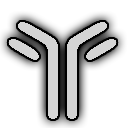
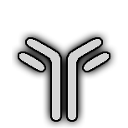
debuff rotation is now centered * no more influent movements of crosshair & debuff

diff --git a/ParticleStormControl/ParticleStormControl/InGame/Level/Level.cs b/ParticleStormControl/ParticleStormControl/InGame/Level/Level.cs
@@ -202,12 +202,29 @@ namespace VirusX
 
         public Rectangle ComputePixelRect(Vector2 position, Vector2 size)
         {
-            int rectSizeX = (int)(size.X * fieldSize_pixel.X + 0.5f);
-            int rectSizeY = (int)(size.Y * fieldSize_pixel.Y + 0.5f);
-            int rectx = (int)(position.X / RELATIVE_MAX.X * FieldPixelSize.X + FieldPixelOffset.X);
-            int recty = (int)(position.Y / RELATIVE_MAX.Y * FieldPixelSize.Y + FieldPixelOffset.Y);
+            Vector2 outSize = ComputePixelScale(size) + new Vector2(0.5f);
+            Vector2 outpos = ComputePixelPosition(position) + new Vector2(0.5f);
+            return new Rectangle((int)outpos.X, (int)outpos.Y, (int)outSize.X, (int)outSize.Y);
+        }
 
-            return new Rectangle(rectx, recty, rectSizeX, rectSizeY);
+        public Vector2 ComputePixelPosition(Vector2 position)
+        {
+            return new Vector2(position.X / RELATIVE_MAX.X * FieldPixelSize.X + FieldPixelOffset.X,
+                               position.Y / RELATIVE_MAX.Y * FieldPixelSize.Y + FieldPixelOffset.Y);
+        }
+
+        public float ComputePixelScale(float relativeScale)
+        {
+            return relativeScale * fieldSize_pixel.Y;
+        }
+        public float ComputeTextureScale(float relativeSize, int textureSize)
+        {
+            return ComputePixelScale(relativeSize) / textureSize;
+        }
+        public Vector2 ComputePixelScale(Vector2 relativeScale)
+        {
+            return new Vector2(relativeScale.X * fieldSize_pixel.X,
+                               relativeScale.Y * fieldSize_pixel.Y);
         }
 
         /// <summary>
@@ -299,16 +316,14 @@ namespace VirusX
                 // move antibodies to the nearest player
                 else if (mapObject is Debuff)
                 {
-                    var playerByDistance = players.OrderBy(x => Vector2.DistanceSquared(x.ParticleAttractionPosition, mapObject.Position));
-                    if(playerByDistance.Count() > 1)
+                    var nearestPlayer = players.OrderBy(x => Vector2.DistanceSquared(x.ParticleAttractionPosition, mapObject.Position)).First();
+                    Vector2 move = nearestPlayer.ParticleAttractionPosition - mapObject.Position;
+                    float distanceToPlayerAttractionPos = move.Length();
+                    if (distanceToPlayerAttractionPos > 0.02f)
                     {
-                        Vector2 move = playerByDistance.First().ParticleAttractionPosition - mapObject.Position;
-                        if (move.Length() > 0.02f)
-                        {
-                            move /= move.Length();
-                            move *= (float)gameTime.ElapsedGameTime.TotalSeconds * (Player.CURSOR_SPEED * 0.015f);
-                            mapObject.Position += move;
-                        }
+                        move /= distanceToPlayerAttractionPos;
+                        move *= (float)gameTime.ElapsedGameTime.TotalSeconds * (Player.CURSOR_SPEED * 0.015f);
+                        mapObject.Position += move;
                     }
                 }
             }

diff --git a/ParticleStormControl/ParticleStormControl/InGame/Level/Crosshair.cs b/ParticleStormControl/ParticleStormControl/InGame/Level/Crosshair.cs
@@ -76,15 +76,15 @@ namespace VirusX
             // normal cursor
             if (PlayerAlive)
             {
-                spriteBatch.Draw(crossHairTexture, level.ComputePixelRect(ParticleAttractionPosition, Size), null, color,
-                                    currentRotation, new Vector2(crossHairTexture.Width * 0.5f, crossHairTexture.Height * 0.5f),
+                spriteBatch.Draw(crossHairTexture, level.ComputePixelPosition(ParticleAttractionPosition), null, color,
+                                    currentRotation, new Vector2(crossHairTexture.Width * 0.5f, crossHairTexture.Height * 0.5f), level.ComputeTextureScale(Size, crossHairTexture.Width),
                                     SpriteEffects.None, 0.0f);
 
                 if (ParticleAttractionPosition != Position)
                 {
                     color.A = 150;
-                    spriteBatch.Draw(crossHairTexture, level.ComputePixelRect(Position, Size), null, color,
-                       currentRotation, new Vector2(crossHairTexture.Width * 0.5f, crossHairTexture.Height * 0.5f),
+                    spriteBatch.Draw(crossHairTexture, level.ComputePixelPosition(ParticleAttractionPosition), null, color,
+                       currentRotation, new Vector2(crossHairTexture.Width * 0.5f, crossHairTexture.Height * 0.5f), level.ComputeTextureScale(Size, crossHairTexture.Width),
                         SpriteEffects.None, 0.0f);
                 }
             }
@@ -92,8 +92,8 @@ namespace VirusX
             else
             {
                 color.A = 150;
-                spriteBatch.Draw(deadPlayerCursor, level.ComputePixelRect(Position, Size), null, color,
-                                    currentRotation, new Vector2(deadPlayerCursor.Width * 0.5f, deadPlayerCursor.Height * 0.5f),
+                spriteBatch.Draw(deadPlayerCursor, level.ComputePixelPosition(ParticleAttractionPosition), null, color,
+                                    currentRotation, new Vector2(deadPlayerCursor.Width * 0.5f, deadPlayerCursor.Height * 0.5f), level.ComputeTextureScale(Size, deadPlayerCursor.Width),
                                     SpriteEffects.None, 0.0f);
             }
         }

diff --git a/ParticleStormControl/ParticleStormControl/InGame/Level/Debuff.cs b/ParticleStormControl/ParticleStormControl/InGame/Level/Debuff.cs
@@ -114,8 +114,8 @@ namespace VirusX
             // item
             if (!explosionTimer.IsRunning)
             {
-                spriteBatch.Draw(itemTexture, level.ComputePixelRect(Position, Size), null, ComputeColor(),
-                                    (float)gameTime.TotalGameTime.TotalSeconds, textureCenter, SpriteEffects.None, 0.9f);
+                spriteBatch.Draw(itemTexture, level.ComputePixelPosition(Position), null, ComputeColor(),
+                                    (float)gameTime.TotalGameTime.TotalSeconds, textureCenter, level.ComputeTextureScale(Size, itemTexture.Width), SpriteEffects.None, 0.9f);
             }
             // explosion
             if (explosionTimer.IsRunning)
